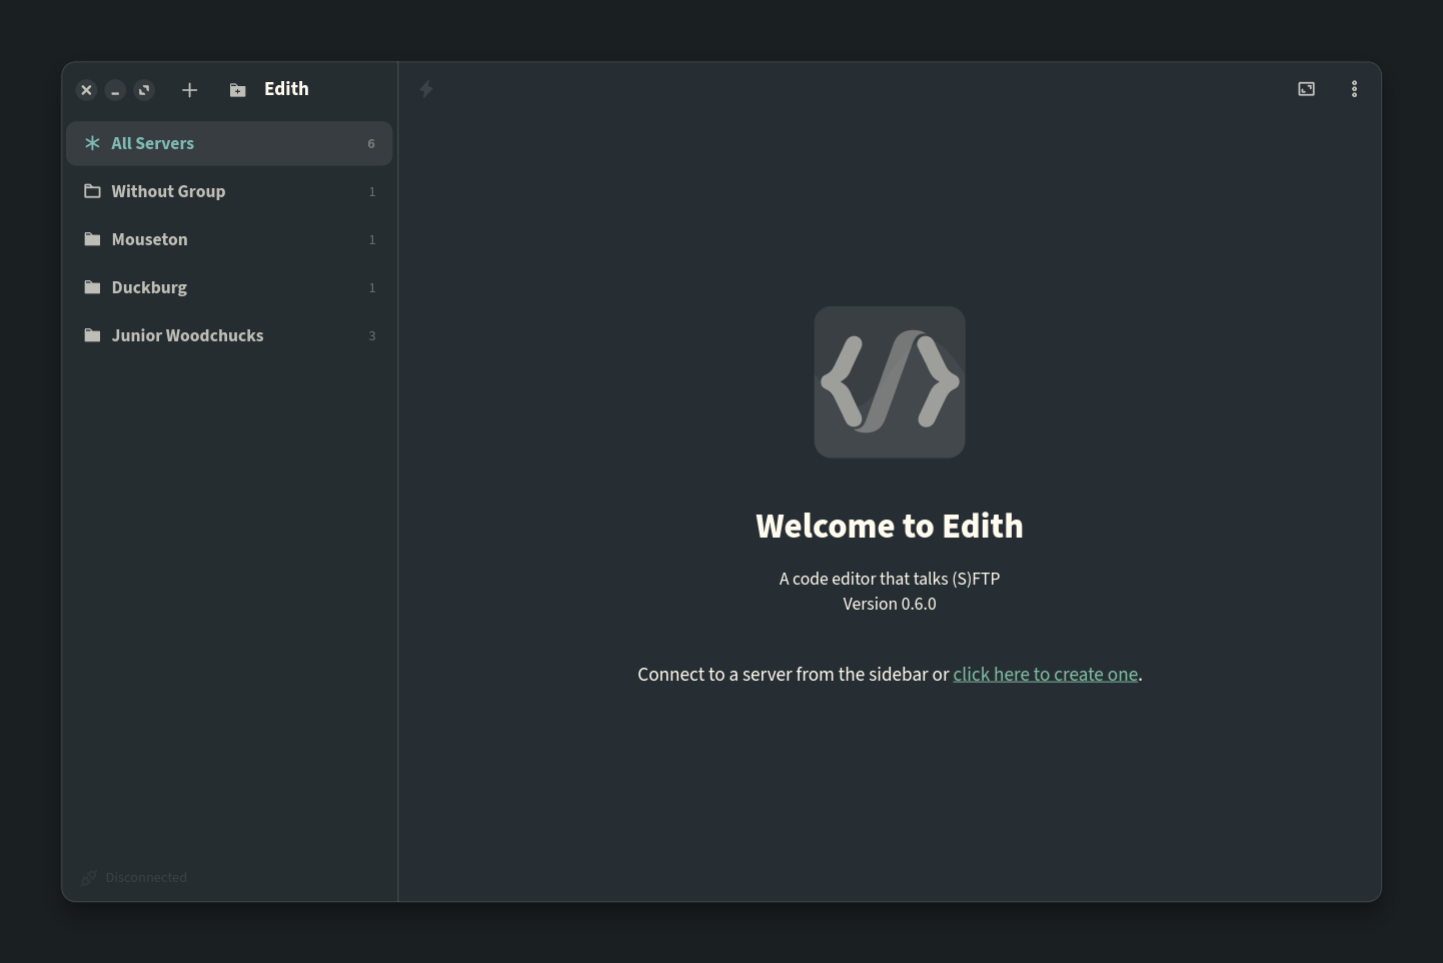
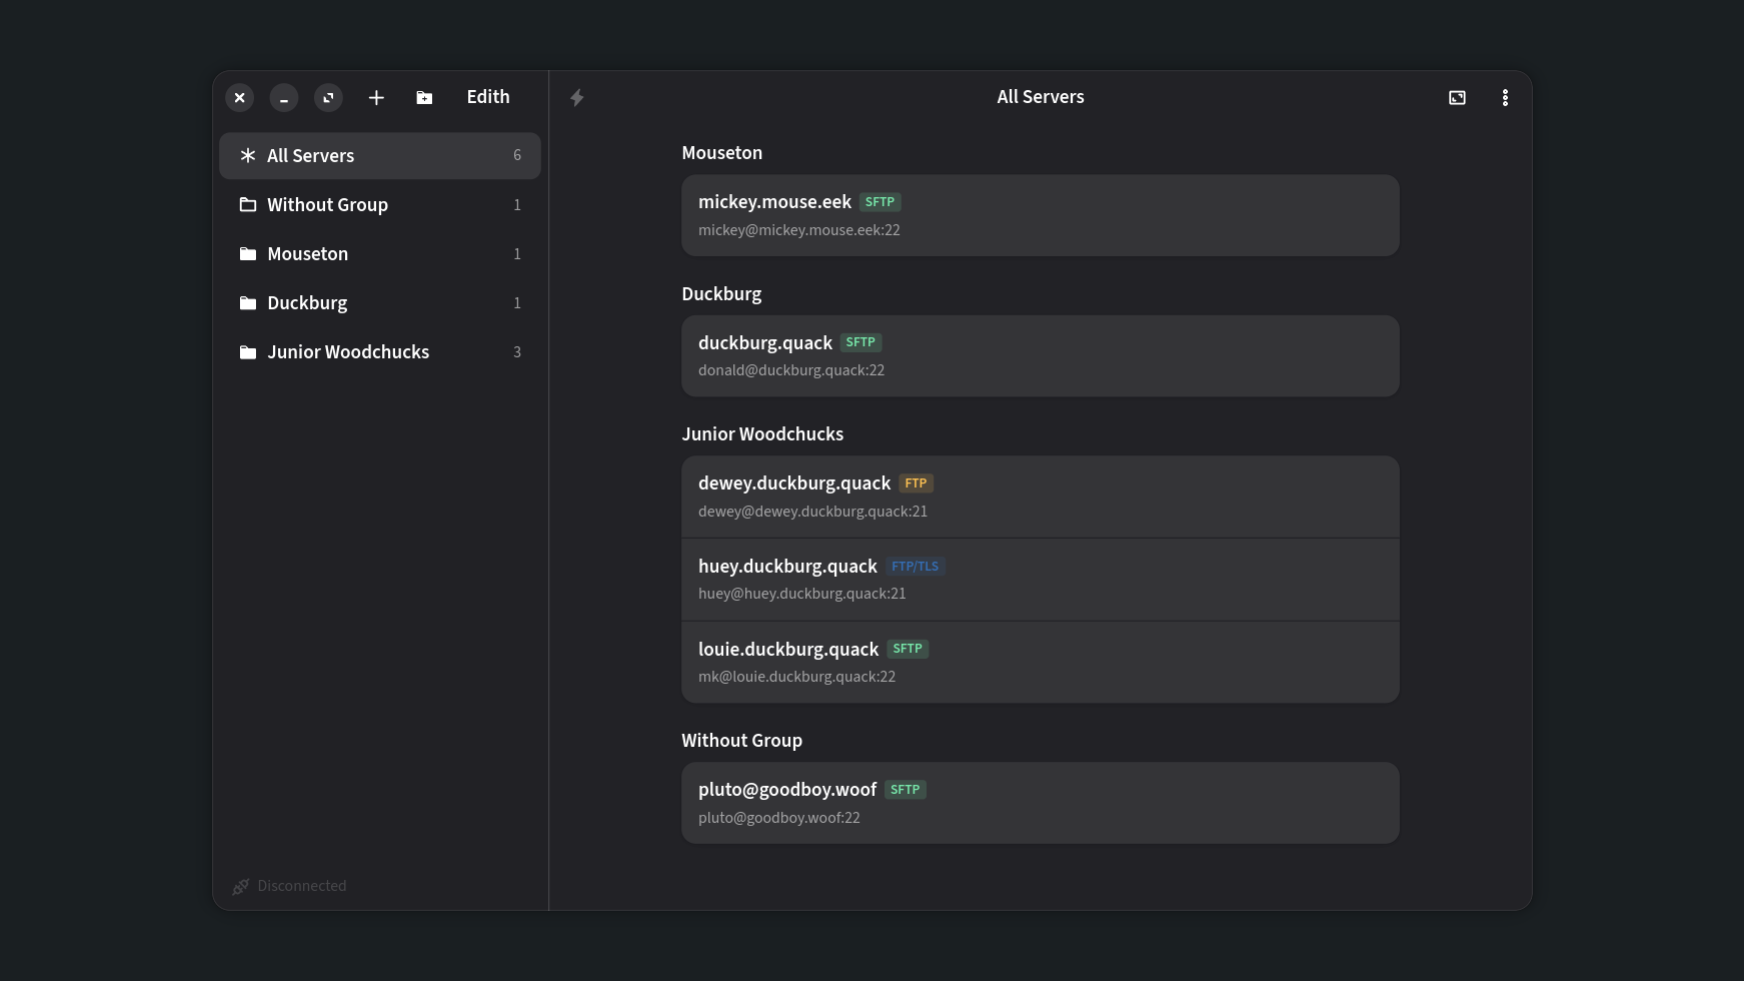
Refresh the screenshots to match the app repo
Same three captures as data/screenshots in the main repo, flattened
onto the page background on a shared canvas. The browsing shot is a
different view now, so its alt text no longer describes a connections
sidebar.

diff --git a/index.html b/index.html
@@ -135,7 +135,7 @@ flatpak install edith de.singular.edith</code></pre>
   </figure>
 
   <figure>
-    <img src="screenshot.png" alt="Edith browsing a remote server: a sidebar of saved connections beside a file listing." loading="lazy">
+    <img src="screenshot.png" alt="Edith connected to a remote server: a file listing with pinned files beside a list of recently opened files." loading="lazy">
     <figcaption>Browsing a remote server</figcaption>
   </figure>
 
